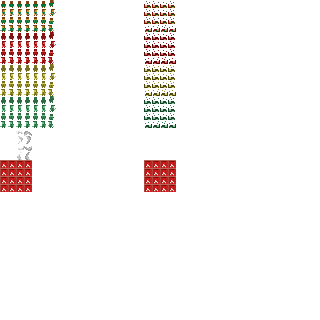
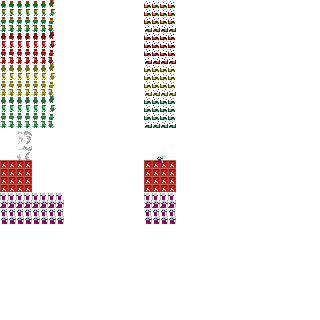
Fixed npc movement from clipping on chunk change. fixed npcs are able to fight eachother. fixed ngight day cycle

Changed region(s): [[0.0, 0.5938, 0.2188, 0.7188], [0.4375, 0.5938, 0.5625, 0.7188]]

diff --git a/npc.js b/npc.js
@@ -22,7 +22,7 @@ function npccontroller() {
     npcLoop:
     for (var npc in cdn) {
         if (cdn.hasOwnProperty(npc)) {
-            var surroundings = [chunk, 32];
+            var surroundings = [chunk, 36];
             for (var nearbyChunk in coredata.chunks){
               general.getDist(cdn[npc].pos, nearbyChunk, function(result){
                 if (result[0] < surroundings[1]) {
@@ -47,8 +47,9 @@ function npccontroller() {
                 cdn[npc].health = 100;
                 cdn[npc].respawn = 200;
                 if (cdn[npc].chunk !== chunk){
-                  console.log(cdn[npc])
-                  coredata.chunks[cdn[npc].chunk].npcs[npc]=JSON.parse(JSON.stringify(cdn[npc]))
+                  if (coredata.chunks.hasOwnProperty(cdn[npc].chunk)){
+                    coredata.chunks[cdn[npc].chunk].npcs[npc]=JSON.parse(JSON.stringify(cdn[npc]))
+                  }
                   delete cdn[npc];
                   break npcLoop;
                 }
@@ -258,12 +259,13 @@ function isLineOfSight(orig, target) {
 
 function getSurroundings(npc, chunk, dist) {
     var origin = coredata.chunks[chunk].npcs[npc].pos;
+    var team = coredata.chunks[chunk].npcs[npc].team;
     var dist = parseInt(dist);
     var surroundings = ["none", dist];
     var orig = [origin.split(".")[0], origin.split(".")[1]];
     var gp = coredata.players
     for (var player in coredata.players) {
-        if (gp.hasOwnProperty(player) && gp[player].alerttimer > 0 ) {
+        if (gp.hasOwnProperty(player) && gp[player].alerttimer > 0 && team != gp[player].team ) {
             var ppos = gp[player].pos;
             var ppsspl = gp[player].pos.split(".")
             general.getDist(origin, ppos, function(result){
@@ -278,8 +280,9 @@ function getSurroundings(npc, chunk, dist) {
     };
     var gn = coredata.chunks[chunk].npcs;
     for (var npctar in gn) {
-        if (gn.hasOwnProperty(npctar) && npctar !== npc && gn[npctar].alerttimer > 0) {
+        if (gn.hasOwnProperty(npctar) && npctar !== npc && gn[npctar].alerttimer > 0 && team != gn[npctar].team ) {
             var ppos = gn[npctar].pos;
+            var ppsspl = gn[npctar].pos.split(".")
             general.getDist(origin, ppos, function(result){
               if (result[0] < surroundings[1]) {
                 surroundings = [npctar, result[0], ppsspl[0], ppsspl[1]];

diff --git a/general.js b/general.js
@@ -1,9 +1,7 @@
 globals = require('./globals.js');
+const fs = require('fs');
 coredata = globals.coredata;
-chunkdata = globals.chunkdata;
-collmap = globals.collmap;
 chunkParts = globals.chunkParts;
-hitbox1 = globals.hitbox1;
 moveQueue = globals.moveQueue;
 mapchange = globals.mapchange;
 
@@ -13,6 +11,9 @@ module.exports = {
   },
   ProcessChunks: function () {
     ProcessChunks();
+  },
+  ProcessTime: function () {
+    ProcessTime();
   },
   Collission: function (location, width, height, callback) {
     Collission(location, width, height, callback);
@@ -28,17 +29,38 @@ module.exports = {
   },
 };
 
+function ProcessTime(){
+  globals.time -= 1
+  if (globals.time == 3300){
+    console.log("The day grows long");
+  };
+  if (globals.time == 3000){
+    console.log("Night has fallen. The darkness chills you");
+    globals.ChangeDayNight("night");
+    coredata.chunks = {}
+  }
+  if (globals.time == 300){
+    console.log("Day is near");
+  }
+  if (globals.time == 0){
+    console.log("Day has broken. the light blesses you");
+    globals.ChangeDayNight("day");
+    coredata.chunks = {}
+    globals.time = 6000;
+  }
+}
+
 function ProcessChunks(){
   var CurrentChunksInTick = []
   for (var player in coredata.players) {
       coredata.players[player].closeChunks = [];
-      for (var chunk in chunkdata){
+      for (var chunk in globals.chunkdata){
         getDist(coredata.players[player].pos, chunk, function(result) {
           if (Math.abs(result[1]) < 70 && Math.abs(result[2]) < 70){
             coredata.players[player].closeChunks.push(chunk);
             CurrentChunksInTick.push(chunk);
             if (! coredata.chunks.hasOwnProperty(chunk)){
-              coredata.chunks[chunk] = chunkdata[chunk];
+              coredata.chunks[chunk] = globals.chunkdata[chunk];
               console.log("New chunk added: ", chunk, "  total: ", Object.keys(coredata.chunks).length)
             };
           };

diff --git a/server.js b/server.js
@@ -139,6 +139,7 @@ var listener = io.listen(server);
 //// Server Update ///////////////////////////////////////////////////////////////////////////////////////////////////
 setInterval(function(){
   var tickstart = new Date().getTime()
+  general.ProcessTime();
   general.ProcessChunks();
   general.StateController();
   npcs.npccontroller();
@@ -172,8 +173,6 @@ setInterval(function(){
         var pos = dp[npc].pos;
         var state = dp[npc].state;
         var dir = dp[npc].dir
-        //position player camera!
-        //listener.sockets.connected[player.slice(1)].emit('camera', dp[player].pos)
         datas.push(code + "." + dir + "." + state + "." + pos);
       }
       //Attacks
@@ -208,8 +207,8 @@ setInterval(function(){
 listener.sockets.on('connection', function(socket){
 
 ////// INIT ////////////
-  var mapname = "This is to take away the coll map sending. it can be used to define which background image to use."
-  socket.emit('getmap', mapname);
+  var mapname = "This simply says that the game has started."
+  socket.emit('start', mapname);
 
 // For every Client data event (this is where we recieve movement)////////////
   socket.on('movement', function(data){

diff --git a/globals.js b/globals.js
@@ -1,15 +1,31 @@
 /////// ONE MODULE TO RULE THEM ALL //////////////////
 
+const fs = require('fs');
+
+// Day Night Change
+function ChangeDayNight(choice){
+  switch(choice){
+    case "day":
+      exports.chunkdata = JSON.parse(fs.readFileSync("./daychunks.json"));
+      break;
+    case "night":
+      exports.chunkdata = JSON.parse(fs.readFileSync("./nightchunks.json"));
+      break;
+  }
+};
+
 
 exports = module.exports = {};
-exports.collmap = require("./coll.json");
 exports.coredata = {"chunks":{},"players":{}};
-exports.chunkdata = require("./chunks.json")
-exports.mapchange = false;
+exports.chunkdata = JSON.parse(fs.readFileSync("./daychunks.json"));
 exports.chunkParts = ["npcs","entities"];
 exports.attackQueue = {};
 exports.movementQueue = {};
 exports.moveQueue = [];
+exports.time = 6000;
+exports.ChangeDayNight = function (choice) { ChangeDayNight(choice); },
+
+
 
 // Tuning settings
 exports.hitbox1 = {"w": 3, "h": 2}

diff --git a/combat.js b/combat.js
@@ -96,6 +96,8 @@ function attack(attacker, chunk){
 };
 
 function dodamage(atpos, owner, chunk, direction, friendlyFire){
+  var ownerTeam
+  if(owner[0] == "p"){ ownerTeam = coredata.players[owner].team} else if (owner[0] == "n"){ ownerTeam = coredata.chunks[chunk].npcs[owner].team} else {ownerTeam = null}
   var damage = 25;
   var at
   switch(direction){
@@ -115,6 +117,7 @@ function dodamage(atpos, owner, chunk, direction, friendlyFire){
       var nameType = result[1][hit][2]
       if (chunk == "none"){ db = coredata } else { db = coredata.chunks[chunk]}
       if (nameType == "colliders"){break;};
+      if (db[nameType][name].hasOwnProperty("team")){ if (db[nameType][name].team == ownerTeam) {break;}};
       db[nameType][name].health = db[nameType][name].health - damage
       general.DoMovement(name, chunk, direction, 6);
       if (db[nameType][name].health <= 0){

diff --git a/main.js b/main.js
@@ -7,7 +7,7 @@ var xwin = window.innerWidth / 2;
 var ywin = window.innerHeight / 2;
 var userplayer = null;
 var coredata = {};
-var mapdata = {};
+var TeamSelected = null;
 var touchdir = ["none", 0];
 var touchtimer = 0;
 
@@ -172,9 +172,9 @@ function move(playername, dir) {
 
 
 ////// GET data //////////////
-socket.on('getmap', function(data) {
-	mapdata = data;
-	console.log("map was loaded:", mapdata);
+socket.on('start', function(data) {
+	TeamSelected = data;
+	console.log("Player Initialized:", TeamSelected);
 });
 
 socket.on('camera', function(data) {
@@ -185,7 +185,7 @@ socket.on('getdata', function(data){
 	coredata = data;
 	//updatehud();
 	//moveplayers(data.players);
-	if (mapdata !== null) {
+	if (TeamSelected !== null) {
 		draw(coredata);
 	};
 });
